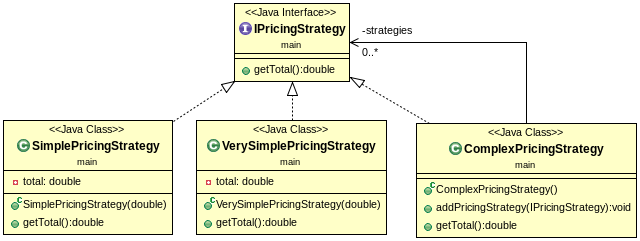
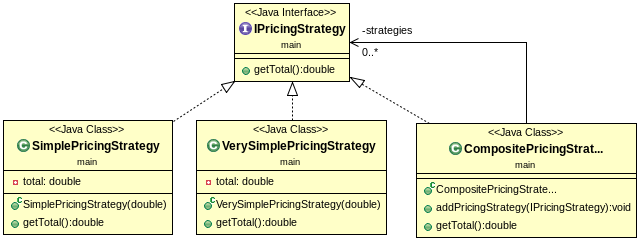
ComplexPricingStrategy refactored

Changed region(s): [[0.7812, 0.5809, 0.9688, 0.668], [0.7188, 0.7552, 0.875, 0.8133]]

diff --git a/src/main/Main.java b/src/main/Main.java
@@ -11,7 +11,7 @@ public class Main {
 		
 		IPricingStrategy simple  = new SimplePricingStrategy(TOTAL);
 		IPricingStrategy vsimple = new VerySimplePricingStrategy(TOTAL);
-		ComplexPricingStrategy complex = new ComplexPricingStrategy();
+		CompositePricingStrategy complex = new CompositePricingStrategy();
 		
 		complex.addPricingStrategy(simple);
 		complex.addPricingStrategy(vsimple);

diff --git a/src/main/CompositePricingStrategy.java b/src/main/CompositePricingStrategy.java
@@ -2,7 +2,7 @@ package main;
 
 import java.util.ArrayList;
 
-public class ComplexPricingStrategy implements IPricingStrategy {
+public class CompositePricingStrategy implements IPricingStrategy {
 	
 	private ArrayList<IPricingStrategy> strategies = new ArrayList<IPricingStrategy>();
 	
